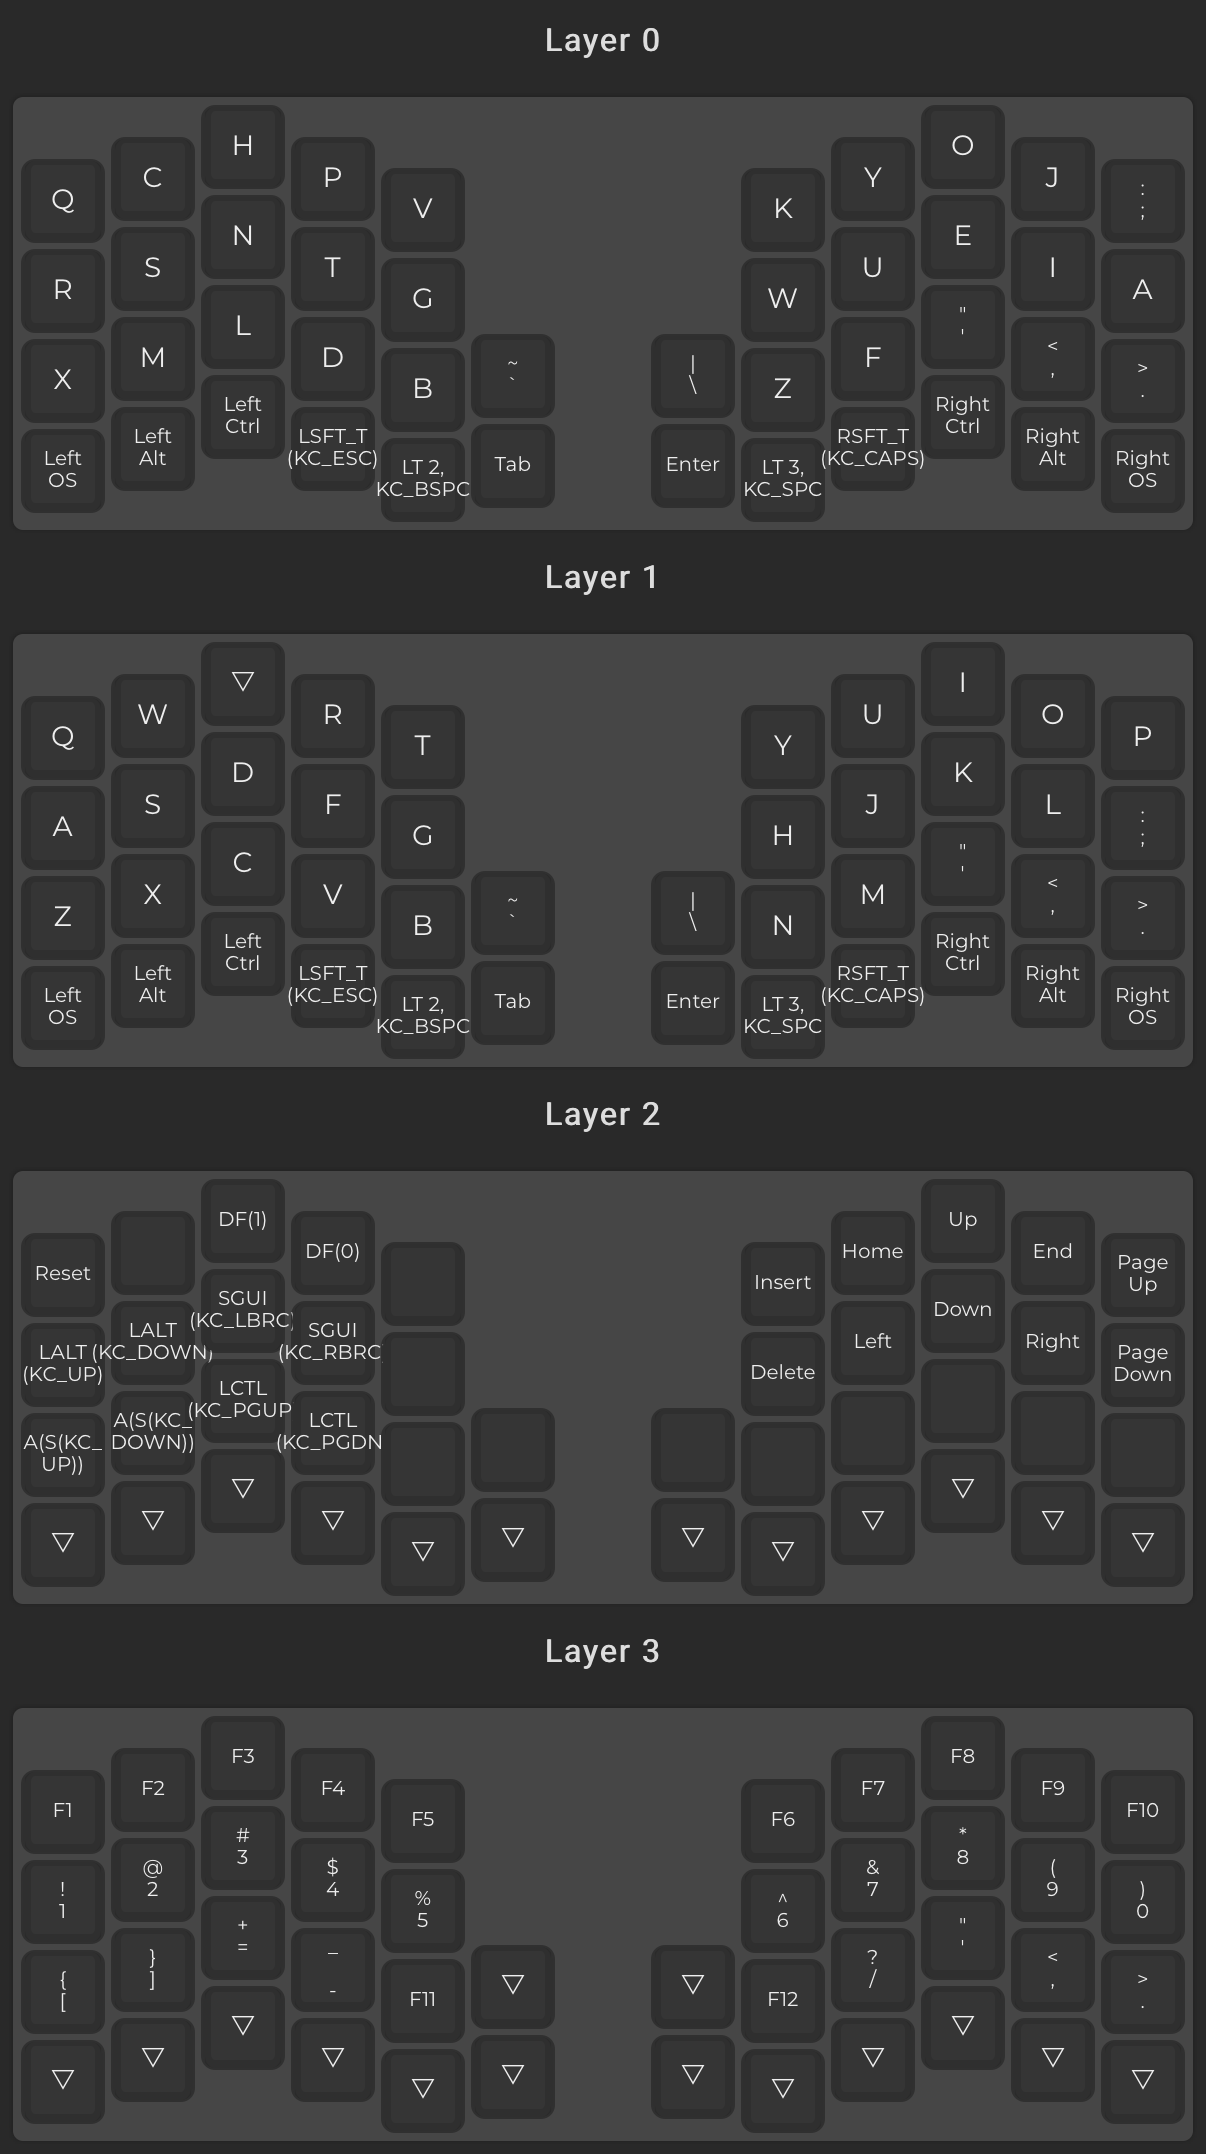
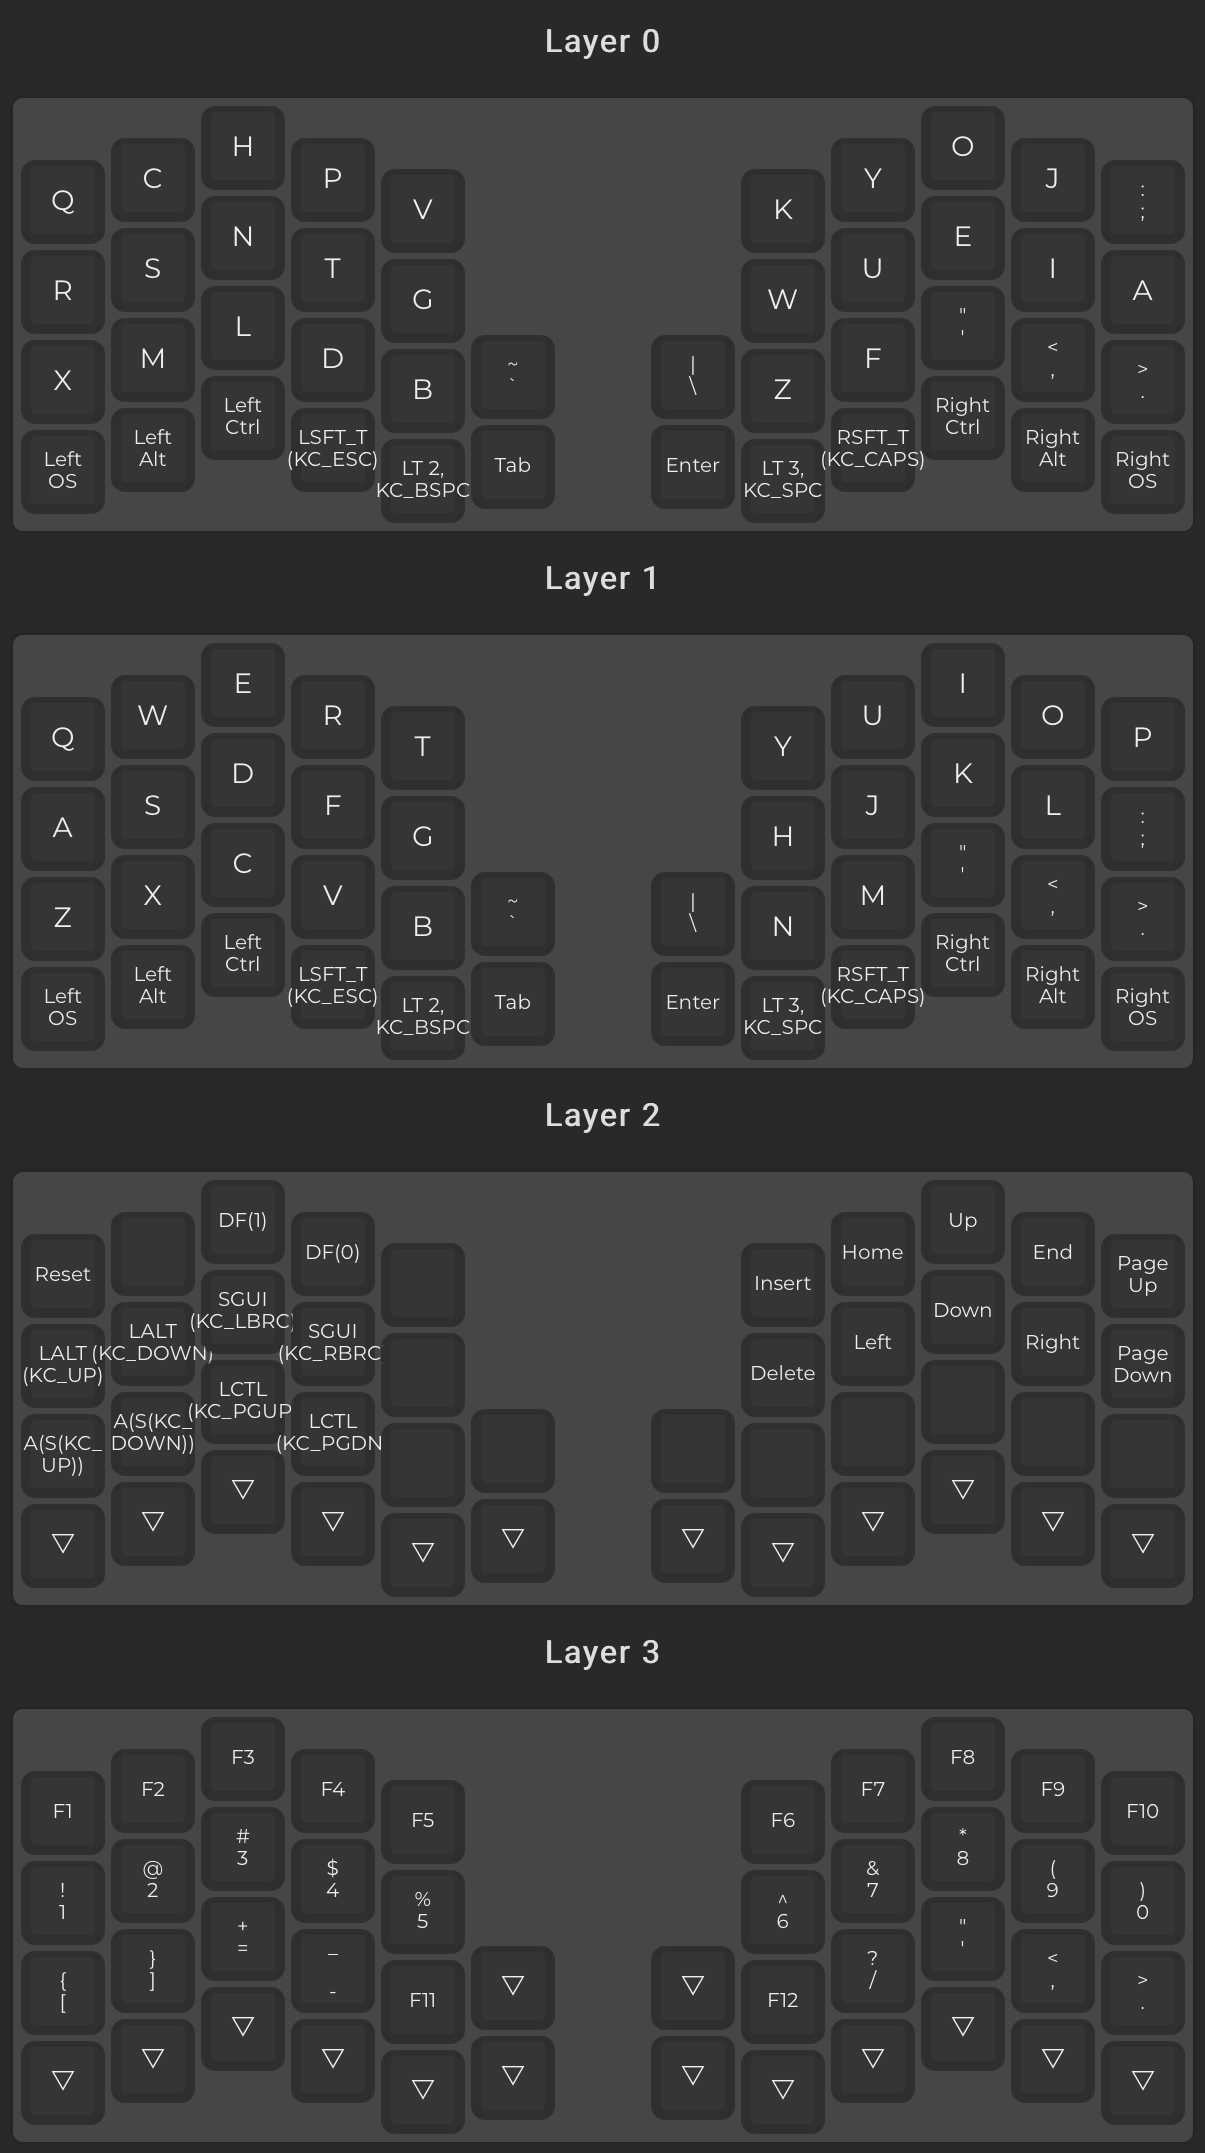
Fix broken key in qwerty map

diff --git a/keymap.c b/keymap.c
@@ -8,7 +8,7 @@
 
 const uint16_t PROGMEM keymaps[][MATRIX_ROWS][MATRIX_COLS] = {
 	[0] = LAYOUT(KC_Q, KC_C, KC_H, KC_P, KC_V, KC_K, KC_Y, KC_O, KC_J, KC_SCLN, KC_R, KC_S, KC_N, KC_T, KC_G, KC_W, KC_U, KC_E, KC_I, KC_A, KC_X, KC_M, KC_L, KC_D, KC_B, KC_GRV, KC_BSLS, KC_Z, KC_F, KC_QUOT, KC_COMM, KC_DOT, KC_LGUI, KC_LALT, KC_LCTL, LSFT_T(KC_ESC), LT(2,KC_BSPC), KC_TAB, KC_ENT, LT(3,KC_SPC), RSFT_T(KC_CAPS), KC_RCTL, KC_RALT, KC_RGUI),
-	[1] = LAYOUT(KC_Q, KC_W, KC_TRNS, KC_R, KC_T, KC_Y, KC_U, KC_I, KC_O, KC_P, KC_A, KC_S, KC_D, KC_F, KC_G, KC_H, KC_J, KC_K, KC_L, KC_SCLN, KC_Z, KC_X, KC_C, KC_V, KC_B, KC_GRV, KC_BSLS, KC_N, KC_M, KC_QUOT, KC_COMM, KC_DOT, KC_LGUI, KC_LALT, KC_LCTL, LSFT_T(KC_ESC), LT(2,KC_BSPC), KC_TAB, KC_ENT, LT(3,KC_SPC), RSFT_T(KC_CAPS), KC_RCTL, KC_RALT, KC_RGUI),
+	[1] = LAYOUT(KC_Q, KC_W, KC_E, KC_R, KC_T, KC_Y, KC_U, KC_I, KC_O, KC_P, KC_A, KC_S, KC_D, KC_F, KC_G, KC_H, KC_J, KC_K, KC_L, KC_SCLN, KC_Z, KC_X, KC_C, KC_V, KC_B, KC_GRV, KC_BSLS, KC_N, KC_M, KC_QUOT, KC_COMM, KC_DOT, KC_LGUI, KC_LALT, KC_LCTL, LSFT_T(KC_ESC), LT(2,KC_BSPC), KC_TAB, KC_ENT, LT(3,KC_SPC), RSFT_T(KC_CAPS), KC_RCTL, KC_RALT, KC_RGUI),
 	[2] = LAYOUT(RESET, KC_NO, DF(1), DF(0), KC_NO, KC_INS, KC_HOME, KC_UP, KC_END, KC_PGUP, LALT(KC_UP), LALT(KC_DOWN), SGUI(KC_LBRC), SGUI(KC_RBRC), KC_NO, KC_DEL, KC_LEFT, KC_DOWN, KC_RGHT, KC_PGDN, A(S(KC_UP)), A(S(KC_DOWN)), LCTL(KC_PGUP), LCTL(KC_PGDN), KC_NO, KC_NO, KC_NO, KC_NO, KC_NO, KC_NO, KC_NO, KC_NO, KC_TRNS, KC_TRNS, KC_TRNS, KC_TRNS, KC_TRNS, KC_TRNS, KC_TRNS, KC_TRNS, KC_TRNS, KC_TRNS, KC_TRNS, KC_TRNS),
 	[3] = LAYOUT(KC_F1, KC_F2, KC_F3, KC_F4, KC_F5, KC_F6, KC_F7, KC_F8, KC_F9, KC_F10, KC_1, KC_2, KC_3, KC_4, KC_5, KC_6, KC_7, KC_8, KC_9, KC_0, KC_LBRC, KC_RBRC, KC_EQL, KC_MINS, KC_F11, KC_TRNS, KC_TRNS, KC_F12, KC_SLSH, KC_QUOT, KC_COMM, KC_DOT, KC_TRNS, KC_TRNS, KC_TRNS, KC_TRNS, KC_TRNS, KC_TRNS, KC_TRNS, KC_TRNS, KC_TRNS, KC_TRNS, KC_TRNS, KC_TRNS)
 };
